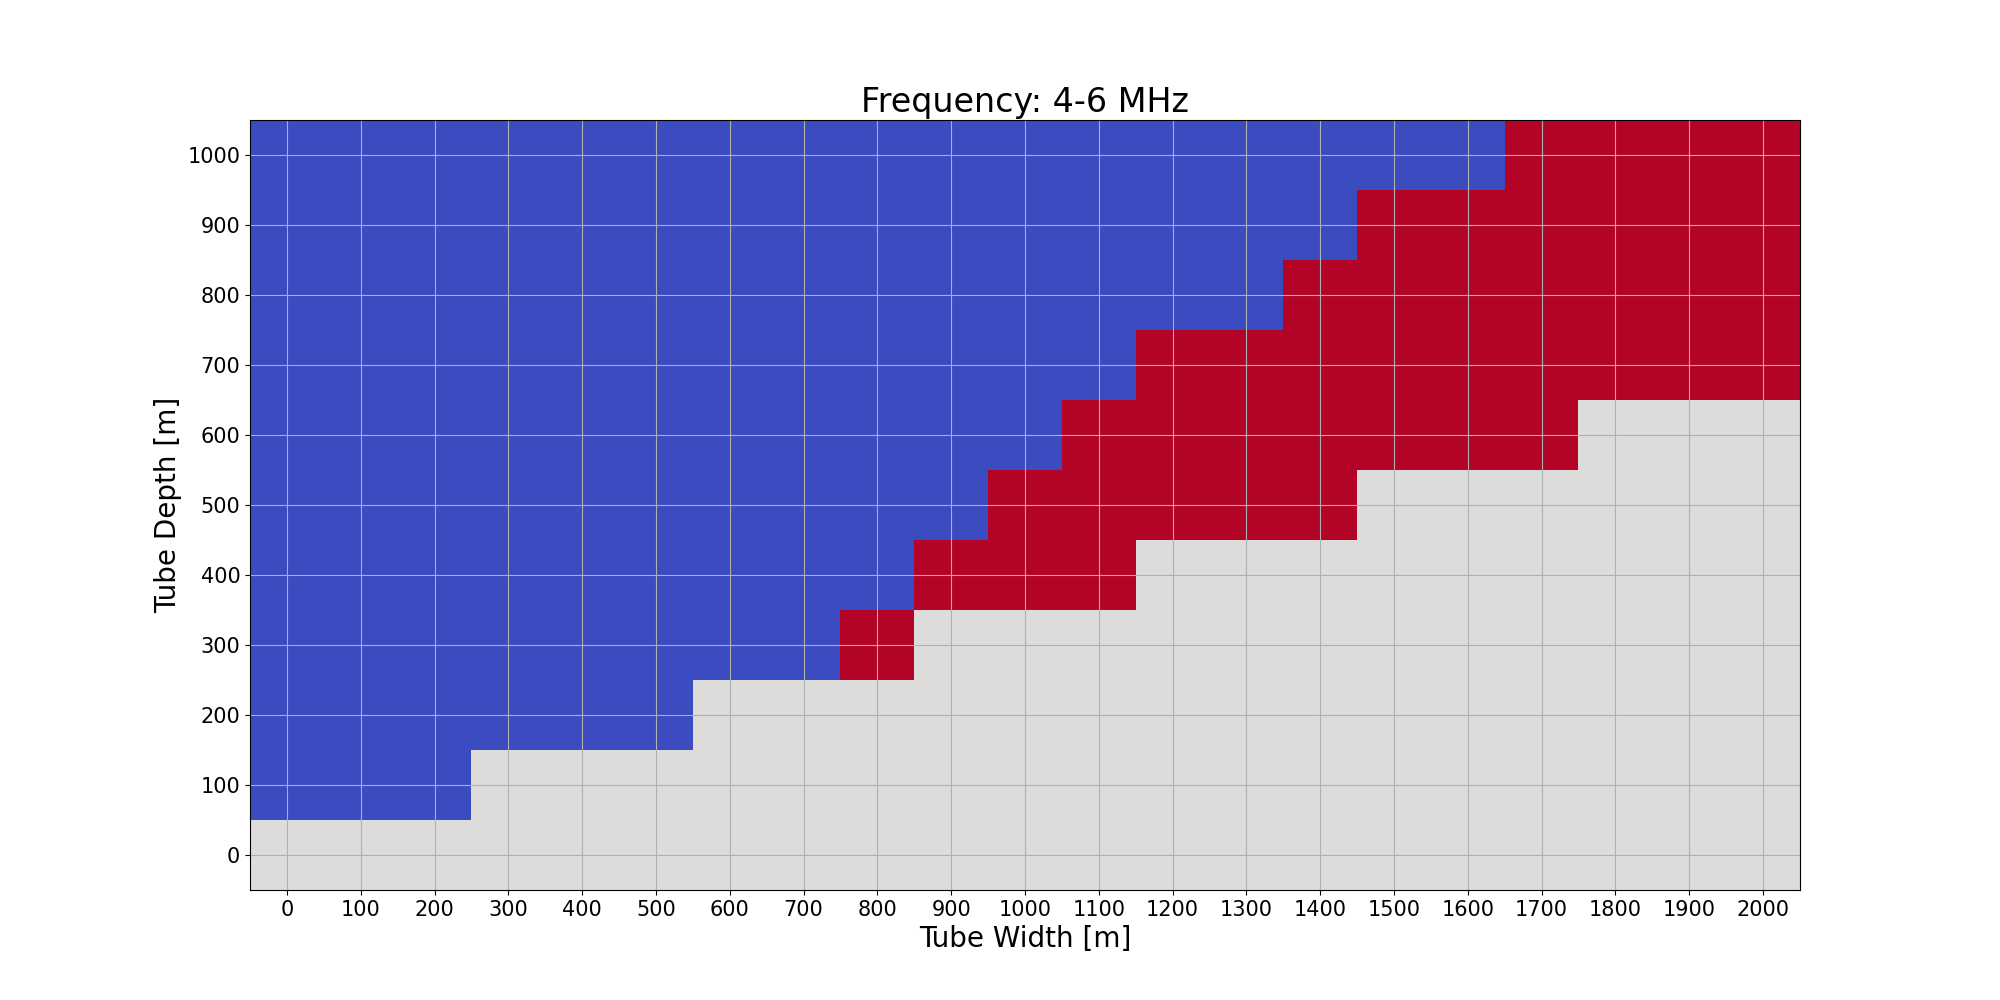
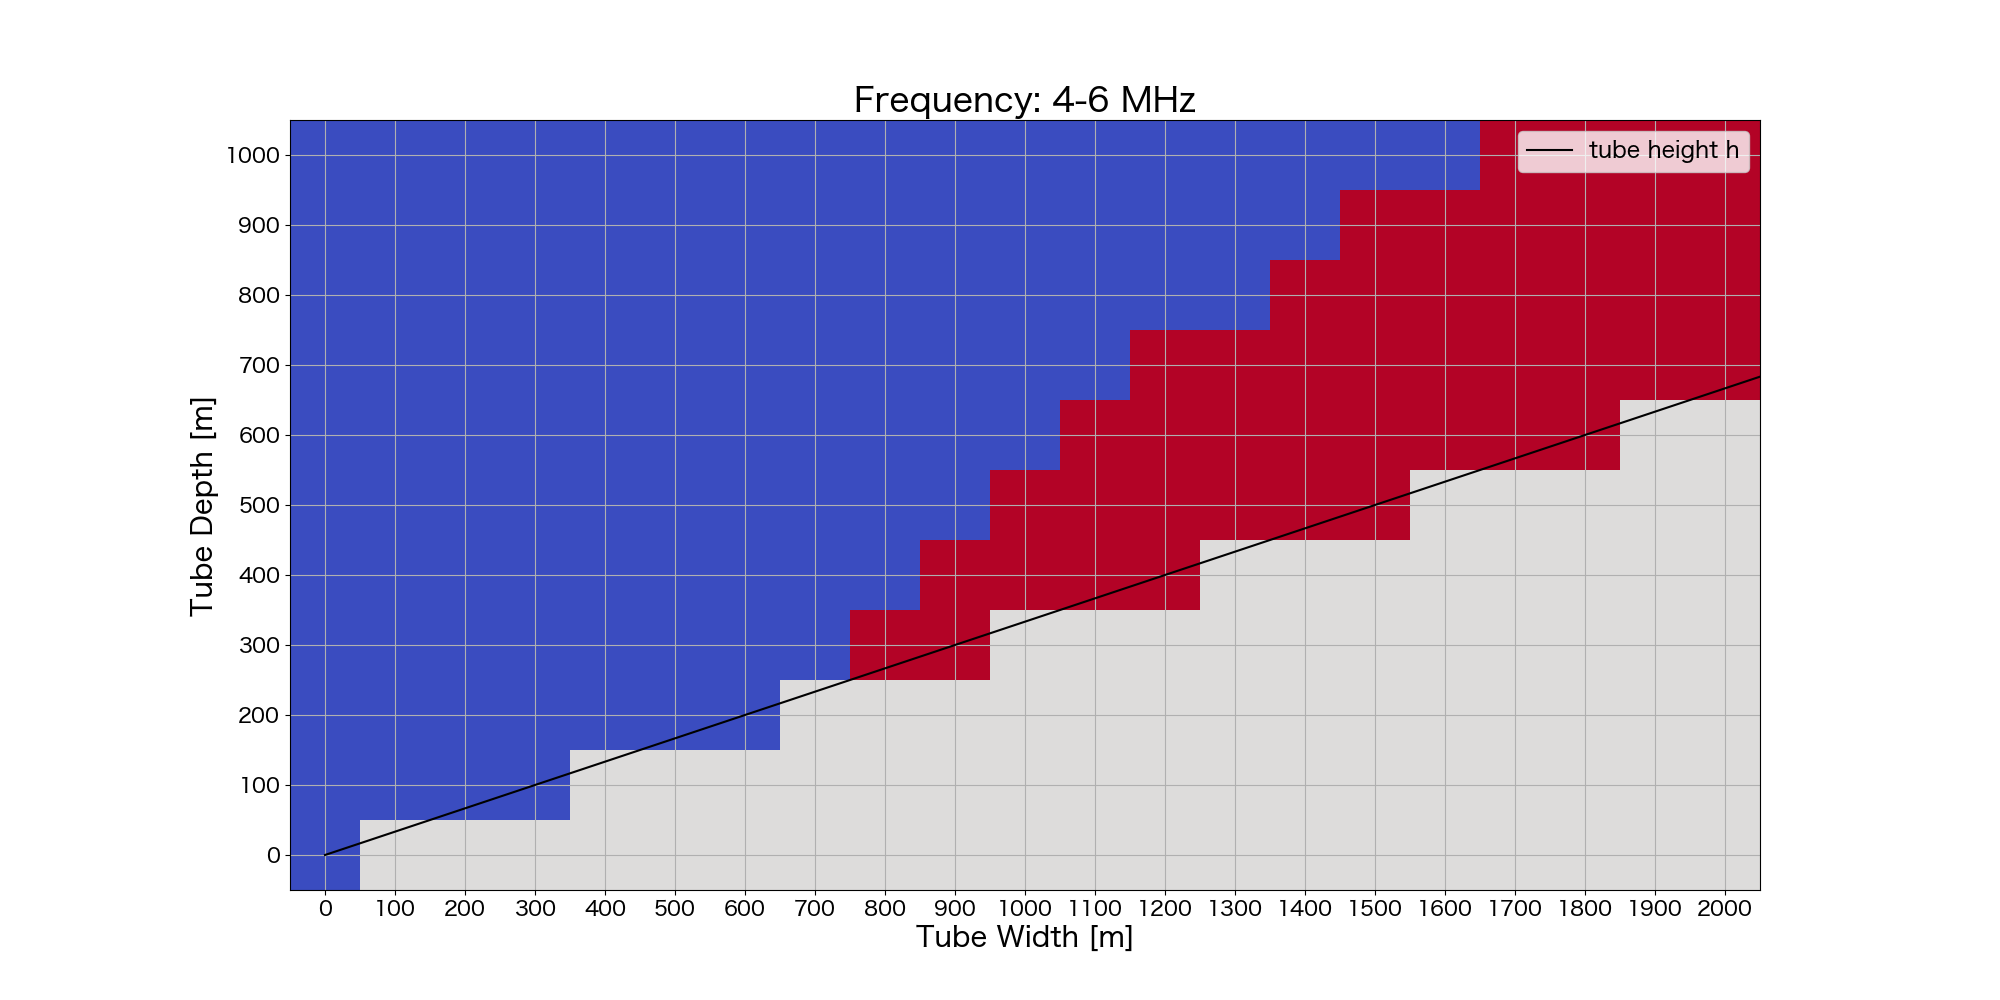
lrs_ditectabilityいろいろ調整

diff --git a/lrs_detectability.py b/lrs_detectability.py
@@ -50,14 +50,14 @@ Gamma_t = 1-Gamma_r
 #周波数、深さ
 width = np.arange(width_min, width_max, width_step)
 depth = np.arange(depth_min, depth_max, depth_step)
-#print(width)
-#print(depth)
+height = width/3
 
 # ノイズレベルの算出[dB]
 noise_dB = 10*np.log10(noise_level / Pt)
 
 
 fw_array = np.zeros((len(depth), len(width)))
+print(len(depth), len(width))
 
 # 受信強度の計算[dB]
 def calc_detectability():
@@ -76,7 +76,7 @@ def calc_detectability():
                 
 
             # 検出可能性の判定
-            if d < h+1:
+            if d < h:
                 fw_array[index_d, index_w] = 0
             elif Pr_detectability > 0 and dR <= h/dR_need:
                 fw_array[index_d, index_w] = 1
@@ -86,7 +86,6 @@ def calc_detectability():
     return fw_array
 
 calc_detectability()
-
 
 
 # アウトプットを保存するフォルダを作成
@@ -107,7 +106,8 @@ plt.figure(figsize=(20, 10))
 plt.subplots_adjust(wspace=0.3)
 plt.subplots_adjust(hspace=0.3)
 
-plt.imshow(fw_array, origin='lower', cmap='coolwarm', aspect='auto',  vmin=-1, vmax=1)
+plt.plot(width, height, 'k', label='tube height h')
+plt.imshow(fw_array, origin='lower', cmap='coolwarm', aspect='equal',  vmin=-1, vmax=1)
 #plt.colorbar()
 
 # タイトルの設定
@@ -119,8 +119,11 @@ plt.xlabel('Tube Width [m]', size=20)  # 横軸のラベルを設定
 plt.ylabel('Tube Depth [m]', size=20)  # 縦軸のラベルを設定
 plt.xticks(np.arange(len(width)), width)
 plt.yticks(np.arange(len(depth)), depth)
+#plt.xlim(0, 20)
+#plt.ylim(0, 10)
 plt.tick_params(axis='both', labelsize=15)
 plt.grid()
+plt.legend(fontsize=16)
 
 
 # プロットの保存
